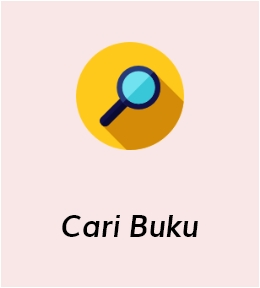
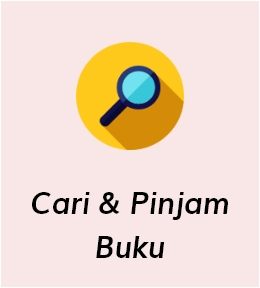
update dashboard button

Changed region(s): [[0.1231, 0.6562, 0.8923, 0.9062]]

diff --git a/code/main_gui.py b/code/main_gui.py
@@ -181,9 +181,9 @@ def login_next():
         print_nama_tamu = "Selamat datang, " + klien.nama + " di CodexLib Bandung!"
         notebook.add(frame2, text='Dashboard')
         # notebook.add(frame3, text='Cari Buku')
-        notebook.add(frame4, text='Peminjaman Buku')
-        notebook.add(frame5, text='Pengembalian Buku')
-        notebook.add(frame6, text ='Perpanjangan')
+        notebook.add(frame4, text='Cari dan Pinjam Buku')
+        notebook.add(frame6, text='Perpanjangan Buku')
+        notebook.add(frame5, text ='Pengembalian Buku')
         notebook.add(frame7, text ='Riwayat')
         notebook.add(frame8, text ='Profil User')
         
@@ -215,7 +215,19 @@ footer_logo.place(anchor='center',relx=0.1, rely=0.9)
 dash_logo = Label(frame2,image=logo_man,background=backgroundDasar)
 dash_logo.place(anchor='center',relx=0.5, rely=0.2)
 
-print_nama_tamu = ""
+print_nama_tamu = "Selamat datang di CodexLib @Bandung! "
+
+def next_caribuku():
+    notebook.select(2)
+
+def next_perpanjangbuku():
+    notebook.select(3)
+
+def next_kembalibuku():
+    notebook.select(4)
+
+def next_riwayat():
+    notebook.select(5)
 
 dash_text1 = Label(frame2, text=print_nama_tamu, font=SMALLFONT, background=backgroundDasar)
 dash_text1.place(anchor='center', relx=0.5, rely=0.35)
@@ -223,16 +235,16 @@ dash_text1.place(anchor='center', relx=0.5, rely=0.35)
 dash_text2 = Label(frame2, text="Layanan Sistem Administrasi CodexLib Bandung", font=('Muli',25,'bold italic underline'), background=backgroundDasar)
 dash_text2.place(anchor='center', relx=0.5, rely=0.42)
 
-dash_1_button = Button(frame2, image=logo_dash_1)
+dash_1_button = Button(frame2, image=logo_dash_1, command= next_caribuku)
 dash_1_button.place(anchor='center', relx=0.23, rely=0.65)
 
-dash_2_button = Button(frame2, image=logo_dash_2)
+dash_2_button = Button(frame2, image=logo_dash_2, command= next_perpanjangbuku)
 dash_2_button.place(anchor='center', relx=0.41, rely=0.65)
 
-dash_3_button = Button(frame2, image=logo_dash_3)
+dash_3_button = Button(frame2, image=logo_dash_3, command= next_kembalibuku)
 dash_3_button.place(anchor='center', relx=0.59, rely=0.65)
 
-dash_4_button = Button(frame2, image=logo_dash_4)
+dash_4_button = Button(frame2, image=logo_dash_4, command= next_riwayat)
 dash_4_button.place(anchor='center', relx=0.77, rely=0.65)
 
 frame2.pack(fill='both', expand=True)
@@ -1051,9 +1063,9 @@ def save_pendaftaran():
             notebook.select(1)
             notebook.add(frame2, text='Dashboard')
             # notebook.add(frame3, text='Cari Buku')
-            notebook.add(frame4, text='Peminjaman Buku')
-            notebook.add(frame5, text='Pengembalian Buku')
-            notebook.add(frame6, text ='Perpanjangan')
+            notebook.add(frame4, text='Cari dan Pinjam Buku')
+            notebook.add(frame6, text='Perpanjangan Buku')
+            notebook.add(frame5, text ='Pengembalian Buku')
             notebook.add(frame7, text ='Riwayat')
             notebook.add(frame8, text ='Profil User')
             notebook.add(frame9, text ='Pendaftaran User Baru')
@@ -1074,9 +1086,9 @@ register_change.place(anchor='center', relx=0.5, rely=0.75)
 notebook.add(frame1, text='Login Page')
 notebook.add(frame2, text='Dashboard')
 # notebook.add(frame3, text='Cari Buku')
-notebook.add(frame4, text='Peminjaman Buku')
-notebook.add(frame5, text='Pengembalian Buku')
-notebook.add(frame6, text ='Perpanjangan')
+notebook.add(frame4, text='Cari dan Pinjam Buku')
+notebook.add(frame6, text='Perpanjangan Buku')
+notebook.add(frame5, text ='Pengembalian Buku')
 notebook.add(frame7, text ='Riwayat')
 notebook.add(frame8, text ='Profil User')
 notebook.add(frame9, text ='Pendaftaran User Baru')

diff --git a/code/APIrequest.py b/code/APIrequest.py
@@ -7,7 +7,8 @@ from dataVariable import *
 #def variable global
 
 def init():
-    global klien, print_nama_tamu
+    global klien
+    global print_nama_tamu
     print_nama_tamu = ''
     klien = user
 
